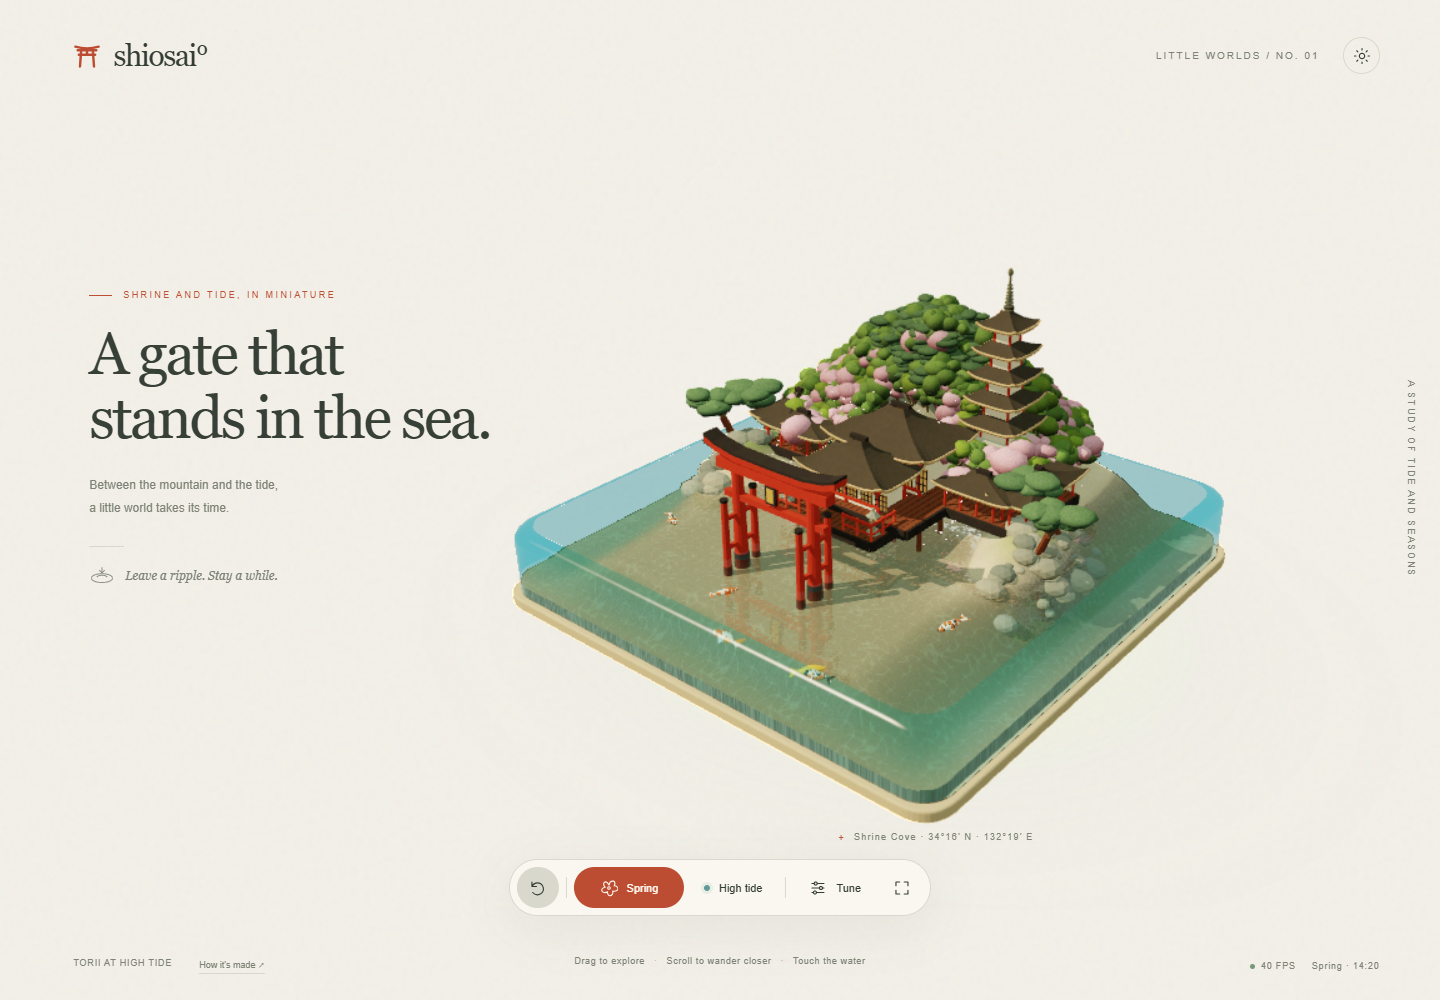
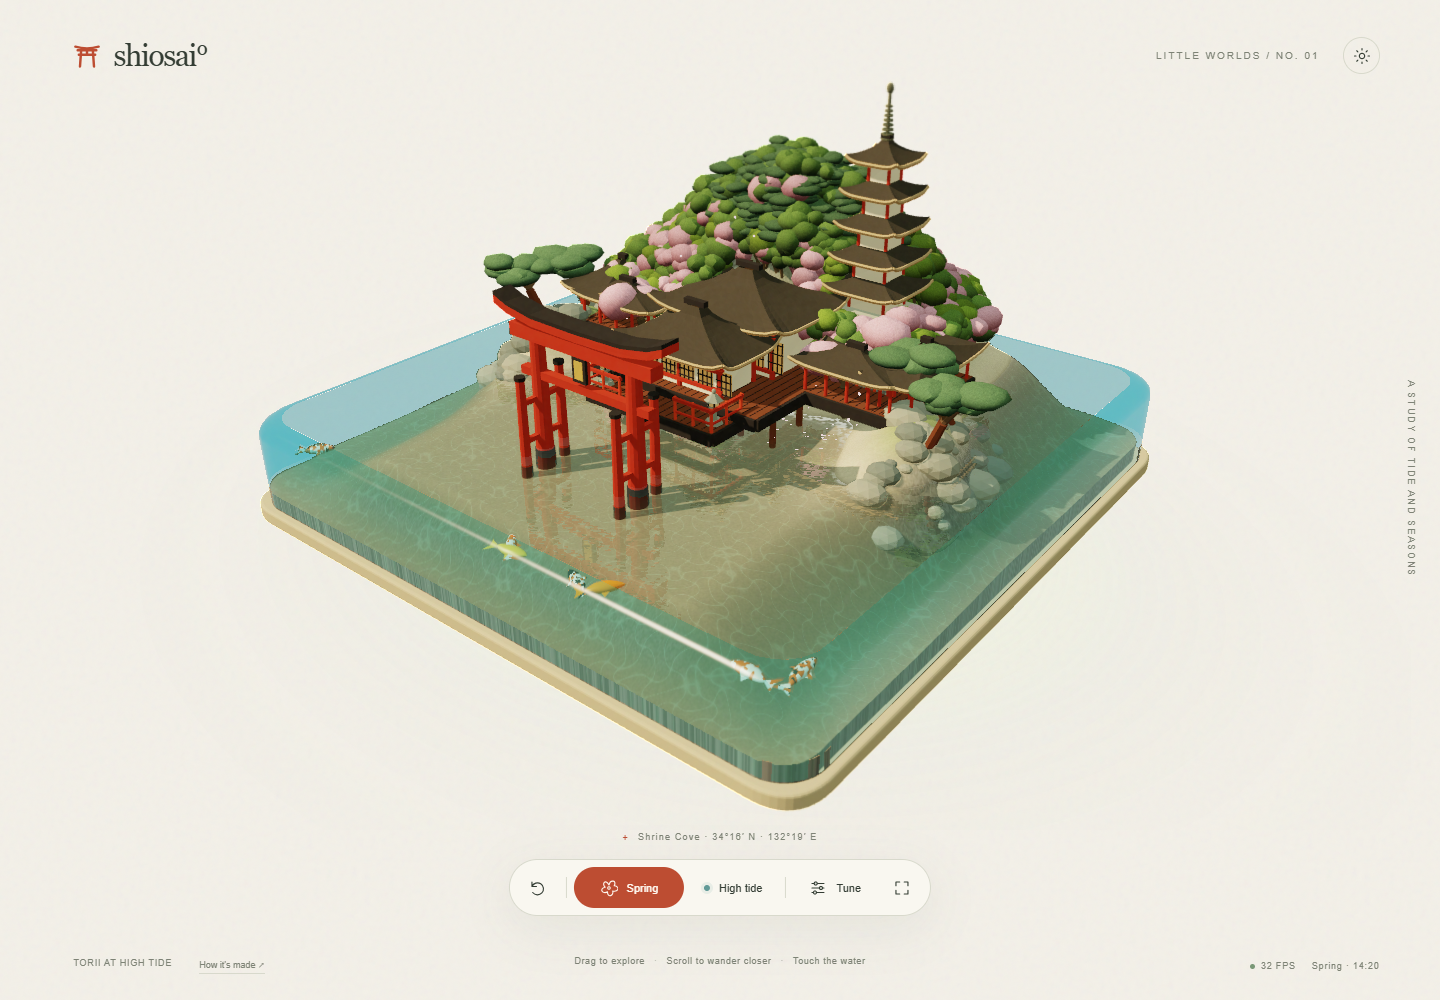
Center and enlarge the diorama and remove introductory copy

Changed region(s): [[0.0625, 0.093, 0.875, 0.837], [0.0625, 0.558, 0.1875, 0.589], [0.3438, 0.868, 0.4062, 0.899]]

diff --git a/index.html b/index.html
@@ -18,6 +18,10 @@ button,input,select{font:inherit}button{border:0;background:none;color:inherit;c
 @media(pointer:coarse){body{-webkit-user-select:none;user-select:none;-webkit-touch-callout:none}.control input,.control select{touch-action:pan-y}.control input[type=range]{height:24px;margin:3px 0}.panel{overscroll-behavior:contain;-webkit-overflow-scrolling:touch}.icon-btn,.panel-head button,.close-info{min-width:44px;min-height:44px}.hint{font-size:10px}.footer-left button{min-height:32px}}
 @media(max-width:600px){body{min-height:100svh;min-height:100dvh}header{top:calc(16px + env(safe-area-inset-top))}.intro{top:calc(99px + env(safe-area-inset-top))}#world{top:22%;bottom:20%}.dock{bottom:calc(86px + env(safe-area-inset-bottom))}.dock button{min-height:44px;height:44px}.dock .round{width:44px}.dock .season{min-width:100px}#tune{width:44px;padding:0}.hint{bottom:calc(62px + env(safe-area-inset-bottom));font-size:9px;letter-spacing:0}.hint span{margin:0 4px}footer{bottom:calc(13px + env(safe-area-inset-bottom))}.location{bottom:calc(158px + env(safe-area-inset-bottom))}.panel{bottom:calc(154px + env(safe-area-inset-bottom));max-height:calc(100dvh - 270px - env(safe-area-inset-top));padding:20px}.info-card{bottom:calc(154px + env(safe-area-inset-bottom));max-height:65dvh;overflow-y:auto}.vertical{display:none}.control select{font-size:16px}.switch-row{min-height:32px}.switch-row input{width:20px;height:20px}}
 @media(pointer:coarse) and (orientation:landscape) and (max-height:600px){header{top:calc(10px + env(safe-area-inset-top));left:4%;right:4%}.brand{font-size:24px}.edition,.intro p,.small-rule,.little-note,.vertical,.location,.footer-left{display:none!important}.intro{top:26%;left:4%;max-width:220px}.eyebrow{font-size:7px;letter-spacing:1.3px;margin-bottom:13px}h1{font-size:34px;letter-spacing:-1.5px}#world{left:20%;right:-2%;top:4%;bottom:15%}.dock{bottom:calc(27px + env(safe-area-inset-bottom));left:63%;padding:5px}.dock button{height:44px;min-height:44px;padding:8px 11px}.dock .round{width:42px}.hint{bottom:calc(8px + env(safe-area-inset-bottom));left:63%;font-size:8px}.performance{display:none}.panel{top:8px;bottom:calc(84px + env(safe-area-inset-bottom));right:2%;left:auto;width:300px;max-height:none}.info-card{top:12px;bottom:85px;left:4%;width:300px;max-height:none;overflow:auto}}
+/* Let the diorama own the full page, with matching space on either side. */
+#world{inset:4% 2% 17%}.location{left:50%}.loading{left:50%}.error{left:10%;right:10%}
+@media(max-width:600px){#world{inset:calc(70px + env(safe-area-inset-top)) 0 calc(174px + env(safe-area-inset-bottom))}.location{left:50%}}
+@media(pointer:coarse) and (orientation:landscape) and (max-height:600px){#world{inset:3% 2% 20%}.dock,.hint{left:50%}}
 </style>
 <script type="importmap">{"imports":{"three":"https://cdn.jsdelivr.net/npm/three@0.160.0/build/three.module.js","three/addons/":"https://cdn.jsdelivr.net/npm/three@0.160.0/examples/jsm/"}}</script>
 </head>
@@ -33,7 +37,7 @@ button,input,select{font:inherit}button{border:0;background:none;color:inherit;c
 <symbol id="ico-ripple" viewBox="0 0 28 24"><ellipse cx="14" cy="15" rx="12" ry="5"/><path d="M8 14c2-3 10-3 12 0M14 3v5m-3-2 3 3 3-3"/></symbol>
 </defs></svg>
 <header><div class="brand"><svg aria-hidden="true"><use href="#ico-torii"/></svg><span>shiosai°</span></div><div class="top-right"><span class="edition">Little worlds / No. 01</span><button id="theme" class="icon-btn" title="Toggle light / dark theme" aria-label="Toggle dark theme" aria-pressed="false"><svg><use href="#ico-sun"/></svg></button></div></header>
-<main><section class="intro"><div class="eyebrow">Shrine and tide, in miniature</div><h1>A gate that<br>stands in the sea.</h1><p>Between the mountain and the tide,<br>a little world takes its time.</p><div class="small-rule"></div><div class="little-note"><svg><use href="#ico-ripple"/></svg>Leave a ripple. Stay a while.</div></section>
+<main>
 <div id="world" tabindex="0" role="img" aria-label="Interactive Japanese shrine island in a clear water block. Drag to orbit, scroll to zoom, move or click over the water to make ripples."></div><div class="vertical">A study of tide and seasons</div><div class="location">Shrine Cove · 34°16′ N · 132°19′ E</div><div class="loading" id="loading" role="status">Gathering a little world…</div><div class="error" id="error" hidden role="alert"></div></main>
 <nav class="dock" aria-label="Diorama controls"><button id="reset" class="round" title="Reset world" aria-label="Reset world"><svg><use href="#ico-reset"/></svg></button><div class="separator"></div><button id="season-cycle" class="season" title="Cycle through the seasons"><svg><use href="#ico-flower"/></svg><span id="season-name">Spring</span></button><button id="tide-toggle" aria-pressed="false" title="Change tide"><span class="tide-dot"></span><span id="tide-name">High tide</span></button><div class="separator"></div><button id="tune" aria-label="Tune" aria-expanded="false" aria-controls="settings"><svg><use href="#ico-tune"/></svg><span class="tune-label">Tune</span></button><button id="fullscreen" class="round" aria-label="Toggle fullscreen" title="Fullscreen"><svg><use href="#ico-expand"/></svg></button></nav>
 <aside id="settings" class="panel" aria-label="World settings" inert><div class="panel-head"><h2>A world, your way.</h2><button id="close-settings" aria-label="Close settings"><svg><use href="#ico-close"/></svg></button></div>
@@ -64,7 +68,7 @@ const host=$('world'),renderer=new THREE.WebGLRenderer({alpha:true,antialias:fal
 if(touch)document.querySelector('.hint').innerHTML='One finger: ripples<span>·</span>Two fingers: orbit & pinch<span>·</span>Tap: splash';if(!renderer.capabilities.isWebGL2)throw Error('This diorama needs a browser with WebGL 2.');
 renderer.setClearColor(0,0);renderer.outputColorSpace=THREE.LinearSRGBColorSpace;renderer.toneMapping=THREE.NoToneMapping;renderer.shadowMap.enabled=true;renderer.shadowMap.type=THREE.PCFSoftShadowMap;renderer.shadowMap.autoUpdate=false;renderer.shadowMap.needsUpdate=true;renderer.info.autoReset=false;host.append(renderer.domElement);
 const scene=new THREE.Scene(),waterScene=new THREE.Scene(),particleScene=new THREE.Scene(),camera=new THREE.PerspectiveCamera(37,1,.15,65);
-let compact=innerWidth<=600;const home=new THREE.Vector3(13.2,11.3,16.5);if(compact)home.multiplyScalar(1.14);camera.position.copy(home).multiplyScalar(reduced?1:1.15);const controls=new OrbitControls(camera,renderer.domElement);controls.target.set(0,.35,0);controls.enableDamping=true;controls.dampingFactor=.065;controls.minDistance=12;controls.maxDistance=36;controls.maxPolarAngle=Math.PI*.475;controls.minPolarAngle=.21;controls.enablePan=false;controls.autoRotate=false;controls.touches.ONE=THREE.TOUCH.PAN;controls.touches.TWO=THREE.TOUCH.DOLLY_ROTATE;controls.update();
+const home=new THREE.Vector3(13.2,11.3,16.5);camera.position.copy(home).multiplyScalar(reduced?1:1.15);const controls=new OrbitControls(camera,renderer.domElement);controls.target.set(0,-.7,0);controls.enableDamping=true;controls.dampingFactor=.065;controls.minDistance=12;controls.maxDistance=48;controls.maxPolarAngle=Math.PI*.475;controls.minPolarAngle=.21;controls.enablePan=false;controls.autoRotate=false;controls.touches.ONE=THREE.TOUCH.PAN;controls.touches.TWO=THREE.TOUCH.DOLLY_ROTATE;controls.update();
 const hemi=new THREE.HemisphereLight(0xdde9df,0x746653,2.3);scene.add(hemi);const sun=new THREE.DirectionalLight(0xffe1ae,3.2);sun.position.set(-6,12,7);sun.castShadow=true;sun.shadow.mapSize.set(touch?1024:2048,touch?1024:2048);Object.assign(sun.shadow.camera,{left:-8,right:8,top:8,bottom:-8,near:.1,far:35});sun.shadow.bias=-.00035;sun.shadow.normalBias=.025;sun.shadow.radius=3;scene.add(sun);scene.add(sun.target);
 const warmLights=[[-.2,1.2,-.2,1.6],[0,.8,1.2,1.0],[0,1.0,3.0,1.3]].map(a=>{const l=new THREE.PointLight(0xffaa54,0,5,2);l.position.set(...a.slice(0,3));scene.add(l);return l});
 const U={time:{value:0},tide:{value:0},winter:{value:0},caustics:{value:.55},dusk:{value:0}};
@@ -262,7 +266,15 @@ function releasePointer(e,cancelled=false){
 renderer.domElement.addEventListener('pointerup',e=>releasePointer(e));renderer.domElement.addEventListener('pointercancel',e=>releasePointer(e,true));
 renderer.domElement.addEventListener('pointerleave',e=>{if(e.pointerType!=='touch'){pointer.x=pointer.z=100;dragging=false}});
 let dpr=Math.min(devicePixelRatio,touch?1.25:1.6),width=1,heightPx=1;
-function resize(){if(compact!==(innerWidth<=600)){compact=innerWidth<=600;home.set(13.2,11.3,16.5).multiplyScalar(compact?1.14:1);cameraReset=1}width=host.clientWidth;heightPx=host.clientHeight;renderer.setPixelRatio(dpr);renderer.setSize(width,heightPx);camera.aspect=width/heightPx;camera.updateProjectionMatrix();const size=renderer.getDrawingBufferSize(new THREE.Vector2());opaque.setSize(size.x,size.y);composite.setSize(size.x,size.y);waterUniforms.resolution.value.copy(size)}addEventListener('resize',resize);resize();
+// Fit the actual silhouette: the water-block corners, hill, pines and pagoda.
+// This uses the canvas aspect ratio, so a phone and a wide screen both get the
+// largest complete view instead of reserving empty space for editorial text.
+const framePoints=[],basePositions=baseGeo.attributes.position;for(let i=0;i<basePositions.count;i++)framePoints.push(new THREE.Vector3().fromBufferAttribute(basePositions,i).add(base.position));for(let i=0;i<80;i++){const [x,z]=boundary(i/80,5);framePoints.push(new THREE.Vector3(x,0,z))}
+framePoints.push(new THREE.Vector3(1.48,4.55,-1.95),new THREE.Vector3(-.65,3.5,-2.72),new THREE.Vector3(-4.6,1.9,.15),new THREE.Vector3(4.6,1.9,.15));
+const frameDirection=new THREE.Vector3(13.2,10.95,16.5).normalize(),frameRight=new THREE.Vector3(frameDirection.z,0,-frameDirection.x).normalize(),frameUp=new THREE.Vector3().crossVectors(frameDirection,frameRight),frameOffset=new THREE.Vector3();
+let framedWidth=0,framedHeight=0;
+function fitHome(){const tangent=Math.tan(THREE.MathUtils.degToRad(camera.fov*.5));let distance=12;for(const p of framePoints){frameOffset.copy(p).sub(controls.target);const near=frameOffset.dot(frameDirection);distance=Math.max(distance,near+Math.abs(frameOffset.dot(frameRight))/(tangent*camera.aspect*.97),near+Math.abs(frameOffset.dot(frameUp))/(tangent*.96))}home.copy(frameDirection).multiplyScalar(distance).add(controls.target);controls.maxDistance=Math.max(48,distance*1.35)}
+function resize(){width=host.clientWidth;heightPx=host.clientHeight;renderer.setPixelRatio(dpr);renderer.setSize(width,heightPx);camera.aspect=width/heightPx;camera.updateProjectionMatrix();if(width!==framedWidth||heightPx!==framedHeight){const first=framedWidth===0;fitHome();if(first){camera.position.copy(home).sub(controls.target).multiplyScalar(reduced?1:1.15).add(controls.target);controls.update()}else cameraReset=1;framedWidth=width;framedHeight=heightPx}const size=renderer.getDrawingBufferSize(new THREE.Vector2());opaque.setSize(size.x,size.y);composite.setSize(size.x,size.y);waterUniforms.resolution.value.copy(size)}addEventListener('resize',resize);resize();
 let elapsed=0,last=performance.now(),accum=0,frames=0,frameTime=0,fpsTimer=0,fps=60,adaptiveTimer=0,intro=reduced?1:0,hidden=false;
 document.addEventListener('visibilitychange',()=>{hidden=document.hidden;last=performance.now();accum=0});
 function updateSeason(dt){state.season=mix(state.season,state.seasonTarget,1-Math.exp(-dt*2.0));if(Math.abs(state.season-state.seasonTarget)<.001)state.season=state.seasonTarget;const s=state.season%4,a=Math.floor(s),b=(a+1)%4,t=s-a;for(let k=0;k<4;k++){paletteD[k].copy(seasons[a][k][0]).lerp(seasons[b][k][0],t);paletteL[k].copy(seasons[a][k][1]).lerp(seasons[b][k][1],t)}U.winter.value=a===3?1-t:b===3?t:0;particleMat.uniforms.kind.value=state.seasonTarget%4===3?2:state.seasonTarget%4===2?1:0;}
@@ -296,24 +308,9 @@ let shadowWinter=-1,lightingKey='';function animate(now){if(hidden)return;const 
  frames++;frameTime+=realDt;fpsTimer+=realDt;adaptiveTimer+=realDt;if(fpsTimer>1){fps=frames/Math.max(frameTime,.001);$('fps').innerHTML='<i class="live-dot"></i>'+Math.round(fps)+' FPS';frames=0;frameTime=0;fpsTimer=0;updateLabels()}if(adaptiveTimer>6){if(fps<48&&dpr>.8){dpr=Math.max(.8,dpr*.84);resize()}else if(fps>56&&dpr<Math.min(devicePixelRatio,touch?1.25:1.6)){dpr=Math.min(dpr*1.08,touch?1.25:1.6);resize()}adaptiveTimer=0}}
 renderer.setAnimationLoop(animate);$('loading').style.opacity=0;setTimeout(()=>$('loading').hidden=true,1000);updateLabels();
 // Compact read-only inspection surface for verifying real geometry and interactions.
-window.shiosai={get stats(){return {ready:true,three:THREE.REVISION,canopies:crowns.length,terrainGrid:N,koi:fishes.length,particles:PCOUNT,season:seasonNames[state.seasonTarget%4],winter:U.winter.value,tide:state.tide,tideTarget:state.tideTarget,waterline:U.tide.value,intro,time:clockText(),fps:Math.round(fps),pixelRatio:dpr,calls:renderer.info.render.calls,triangles:renderer.info.render.triangles,geometries:renderer.info.memory.geometries,textures:renderer.info.memory.textures,interactions:interactionCount,splashes,particleStates:particles.reduce((a,p)=>(a[p.state]++,a),[0,0,0]),webgl2:renderer.capabilities.isWebGL2,ssrSteps:waterUniforms.ssrSteps.value,fishMinWaterClearance:Math.min(...fishes.map(f=>U.tide.value-f.y)),fishMinBedClearance:Math.min(...fishes.map(f=>f.y-height(f.x,f.z))),reducedMotion:reduced,particlesVisible:pMesh.visible,camera:camera.position.toArray(),renderSize:[opaque.width,opaque.height]}}};
+window.shiosai={get stats(){return {ready:true,three:THREE.REVISION,canopies:crowns.length,terrainGrid:N,koi:fishes.length,particles:PCOUNT,season:seasonNames[state.seasonTarget%4],winter:U.winter.value,tide:state.tide,tideTarget:state.tideTarget,waterline:U.tide.value,intro,time:clockText(),fps:Math.round(fps),pixelRatio:dpr,calls:renderer.info.render.calls,triangles:renderer.info.render.triangles,geometries:renderer.info.memory.geometries,textures:renderer.info.memory.textures,interactions:interactionCount,splashes,particleStates:particles.reduce((a,p)=>(a[p.state]++,a),[0,0,0]),webgl2:renderer.capabilities.isWebGL2,ssrSteps:waterUniforms.ssrSteps.value,fishMinWaterClearance:Math.min(...fishes.map(f=>U.tide.value-f.y)),fishMinBedClearance:Math.min(...fishes.map(f=>f.y-height(f.x,f.z))),reducedMotion:reduced,particlesVisible:pMesh.visible,camera:camera.position.toArray(),target:controls.target.toArray(),renderSize:[opaque.width,opaque.height]}}};
 renderer.domElement.addEventListener('webglcontextlost',e=>{e.preventDefault();$('error').hidden=false;$('error').textContent='The graphics context was interrupted. Reload to return to the island.';renderer.setAnimationLoop(null)});
 // Dispose owned GPU resources if this document is removed from a browser session.
 addEventListener('pageshow',e=>{if(e.persisted)location.reload()});addEventListener('pagehide',()=>{renderer.setAnimationLoop(null);controls.dispose();for(const s of [scene,waterScene,particleScene,quadScene])s.traverse(o=>{o.geometry?.dispose();if(o.material){for(const m of Array.isArray(o.material)?o.material:[o.material])m.dispose()}});for(const t of [waveA,waveB,opaque,composite])t.dispose();landTex.dispose();renderer.dispose()},{once:true});
 </script>
 </body></html>
-
-
-
-
-
-
-
-
-
-
-
-
-
-
-

diff --git a/docs/validation.md b/docs/validation.md
@@ -1,5 +1,11 @@
 # 驗證紀錄
 
+## 置中與放大版面更新
+
+已移除左側介紹文字，改為全寬、左右對稱的場景範圍。鏡頭使用水體底座、岸邊樹木、山丘及五重塔的實際邊界計算取景，重設及旋轉螢幕後會重新配適。
+
+本次 Chrome 檢查涵蓋 1440×1000、1366×650 桌機、390×844、375×667 手機直向及 844×390 橫向。全部通過文字移除、場景與操作列置中、完整模型邊界、無水平溢出、0 個瀏覽器錯誤；手機水面點擊與設定面板仍可操作。數值見 `layout-verification.json`。手機檢查使用觸控模擬，未新增實體手機驗證。
+
 ## 需求與驗證
 
 驗證日期：2026-10-15，Asia/Taipei。以真實 Chrome 瀏覽器執行互動測試；觸控裝置使用瀏覽器模擬。
@@ -34,6 +40,3 @@
 - 未在實體手機、Safari、Firefox 或長時間壓力情境測試；桌機本次測試未達 60 FPS。SSR 是螢幕空間近似，畫面外的物件無法反射。
 
 原始量測摘要見 `verification.json`。`../assets/preview.png` 與 `../assets/mobile-preview.png` 是本檔案的實際瀏覽器截圖。
-
-
-

diff --git a/README.md b/README.md
@@ -2,6 +2,8 @@
 
 一座可互動的日本神社島嶼：四季、潮汐、水面漣漪、飄落的花瓣與自由游動的錦鯉。支援桌機及手機觸控。
 
+場景採用置中、放大的完整模型視角，依螢幕比例調整取景，保留底部操作列。
+
 **[開啟線上作品](https://jjuyp.github.io/shiosai/)** · GitHub Pages 公開網站，手機及桌機均可開啟，不需要登入。
 
 ![桌機預覽](assets/preview.png)
